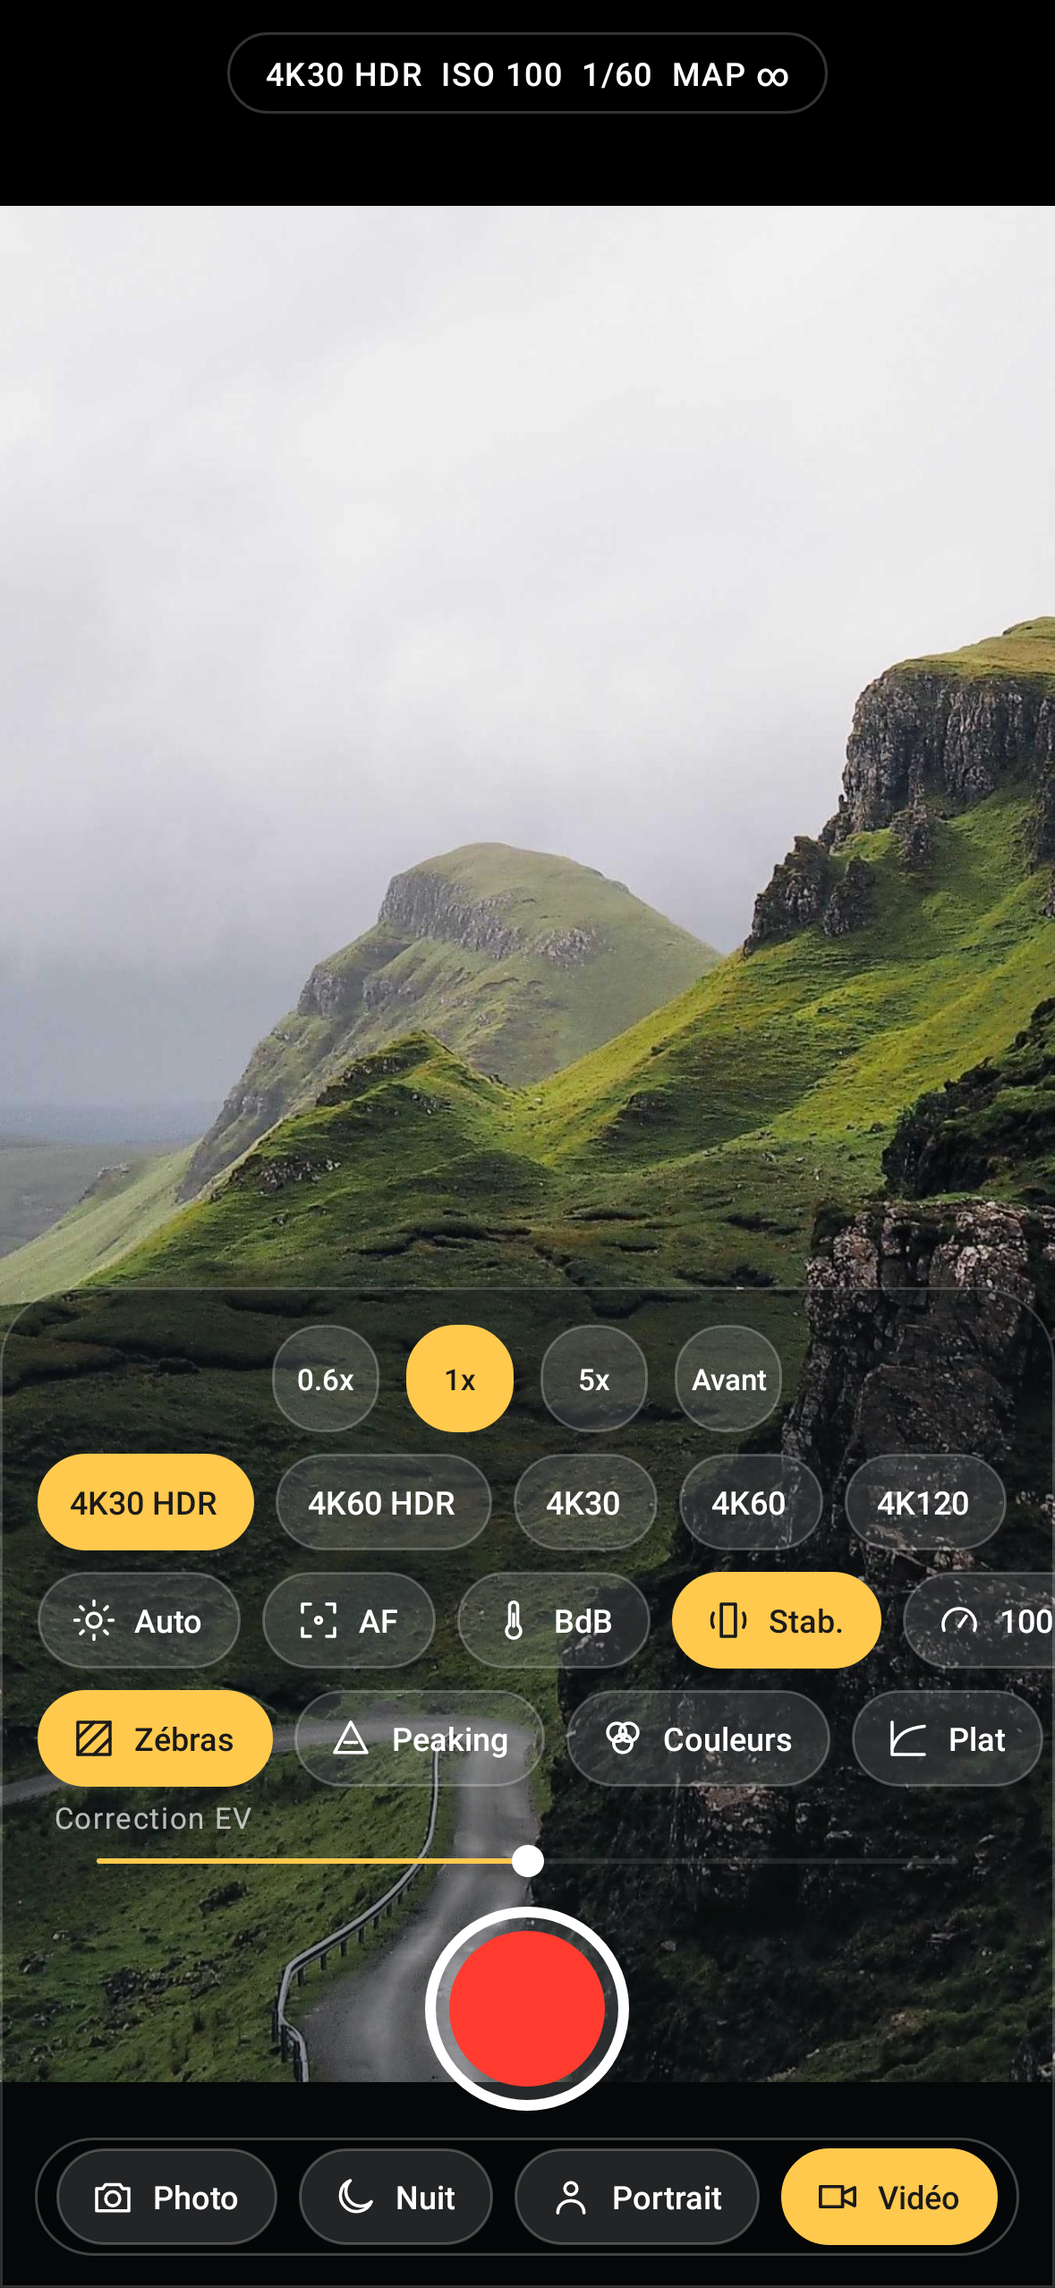
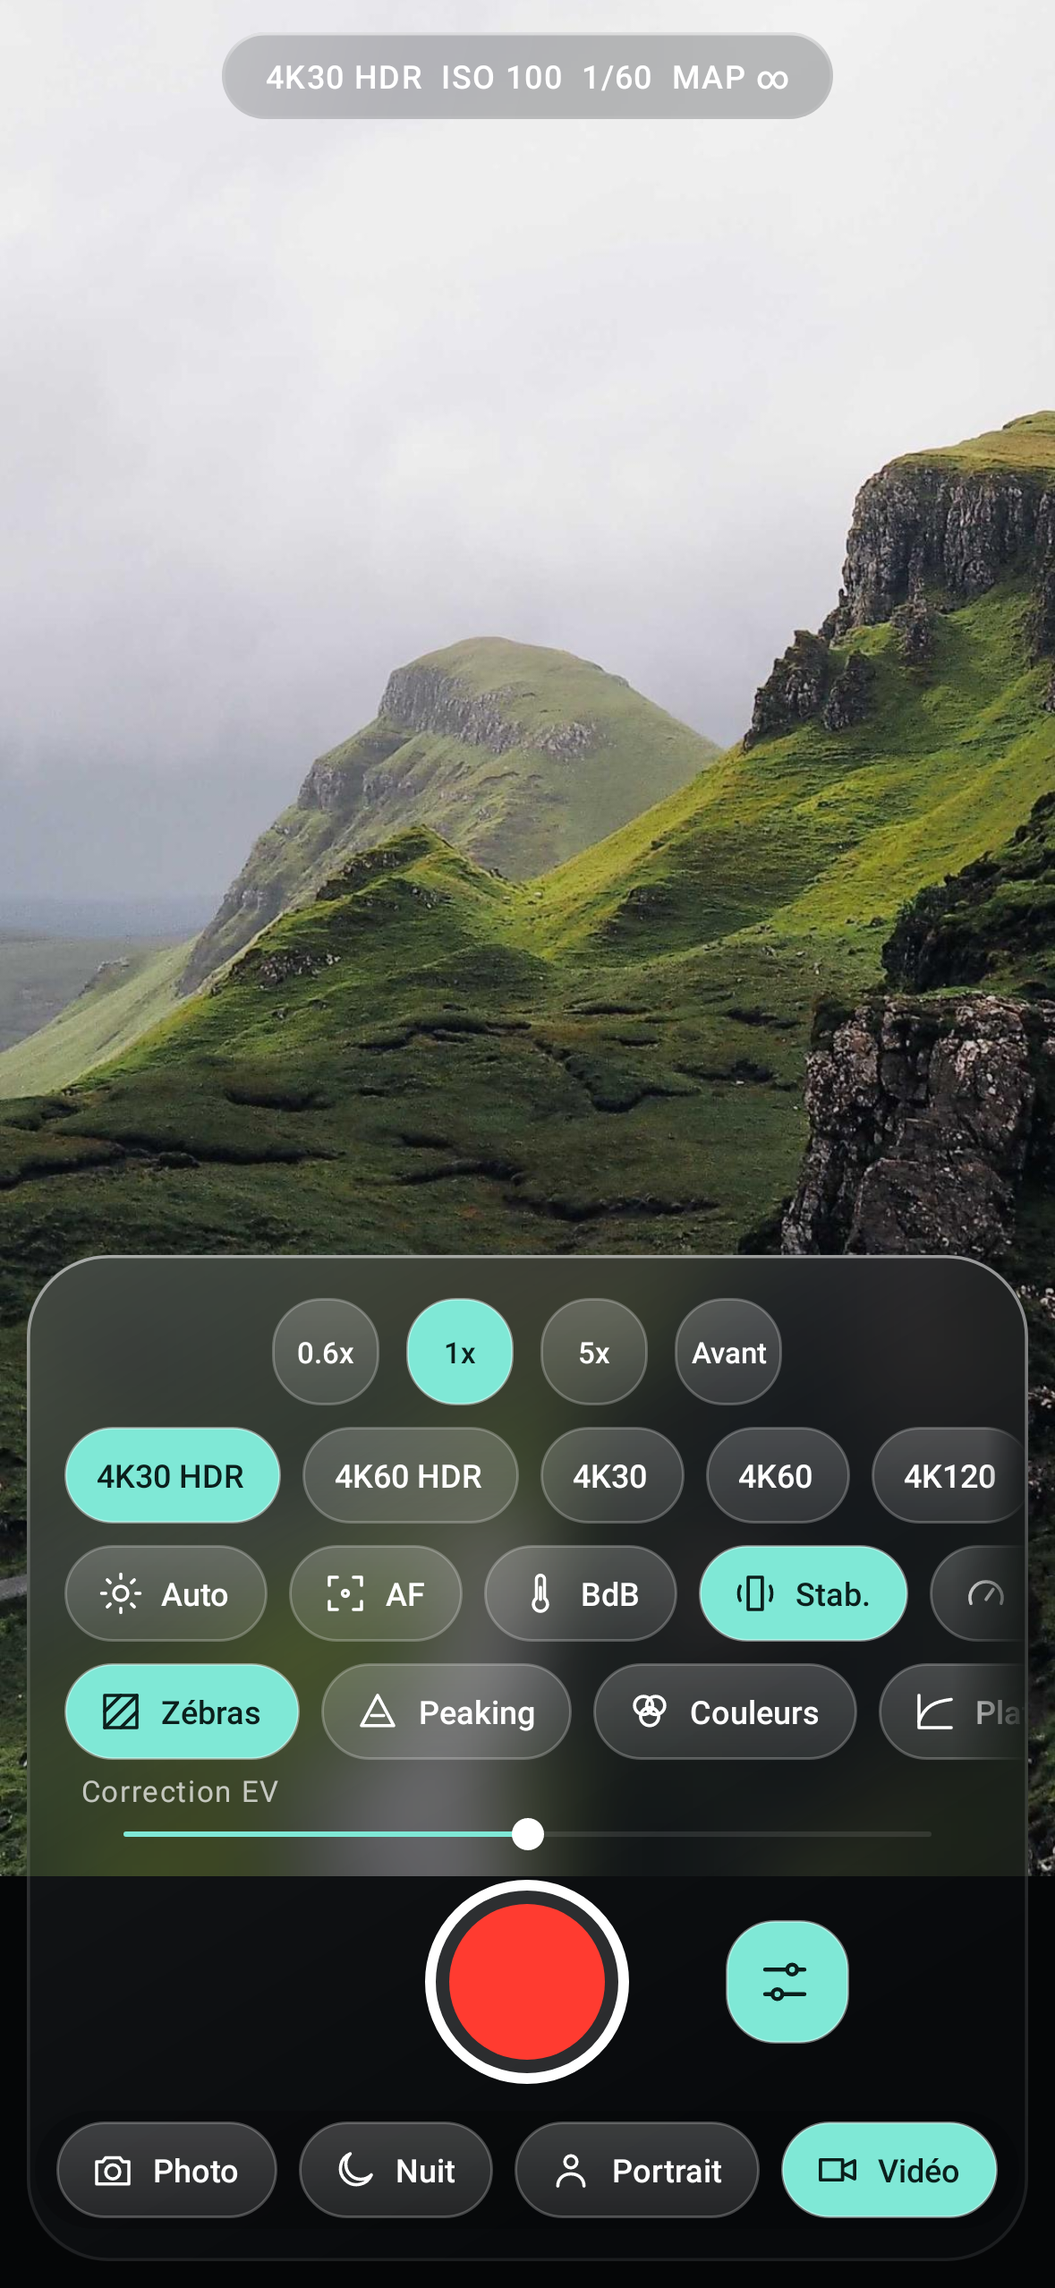
v0.7: real frosted-glass UI and layout fixes
- GlassView: live blurred copy of the preview (PixelCopy, ~12 fps, low
  res, saturated box blur) painted inside each panel, aligned with the
  preview; tint, diagonal sheen, top-lit hairline, soft shadow.
- Floating glass card, mint accent, settings collapsed behind a tune
  button, fading edges on scrolling rows, info floating over the image,
  photo preview passing under the glass card.

Claude-Session: https://claude.ai/code/session_01W8UXQdnoa2nuUfE41EzHPh

diff --git a/app/src/main/java/com/macam/cam/CameraActivity.kt b/app/src/main/java/com/macam/cam/CameraActivity.kt
@@ -105,13 +105,29 @@ class CameraActivity : Activity(), SurfaceHolder.Callback {
 
     override fun onResume() {
         super.onResume()
+        blurHandler.postDelayed(blurTick, 300)
         orientationListener.enable()
         val missing = arrayOf(Manifest.permission.CAMERA, Manifest.permission.RECORD_AUDIO)
             .filter { checkSelfPermission(it) != PackageManager.PERMISSION_GRANTED }
         if (missing.isNotEmpty()) requestPermissions(missing.toTypedArray(), 1) else startCamera()
     }
 
+    /** Copie l'aperçu ~12 fois par seconde en très basse définition pour le flou des panneaux. */
+    private val blurTick = object : Runnable {
+        override fun run() {
+            val sv = surfaceView
+            if (sv.holder.surface.isValid && sv.width > 0) {
+                val small = android.graphics.Bitmap.createBitmap(maxOf(1, sv.width / 8), maxOf(1, sv.height / 8), android.graphics.Bitmap.Config.ARGB_8888)
+                try {
+                    android.view.PixelCopy.request(sv, small, { r -> if (r == android.view.PixelCopy.SUCCESS) Backdrop.update(small) }, blurHandler)
+                } catch (_: Exception) {}
+            }
+            blurHandler.postDelayed(this, 80)
+        }
+    }
+
     override fun onPause() {
+        blurHandler.removeCallbacks(blurTick)
         orientationListener.disable()
         cam?.release(); cam = null
         photo?.release(); photo = null
@@ -198,12 +214,13 @@ class CameraActivity : Activity(), SurfaceHolder.Callback {
     /** L'aperçu est en paysage (16:9) mais l'écran est en portrait : on affiche en 9:16. */
     private fun layoutPreview(size: Size) {
         val w = resources.displayMetrics.widthPixels
-        // 4:3 (photo) : collé en haut sous l'info ; 16:9 (vidéo) : centré, presque plein écran.
+        // L'aperçu part du haut : l'info flotte dessus, et le bas passe sous la carte de verre.
         val tall = size.width * 3 > size.height * 4 + 1
-        val lp = FrameLayout.LayoutParams(w, w * size.width / size.height, if (tall) Gravity.CENTER else Gravity.TOP)
-        if (!tall) lp.topMargin = 52.dp
+        // Photo 4:3 : ancrée par le bas, ses 70 derniers dp passent sous la carte de verre.
+        val lp = FrameLayout.LayoutParams(w, w * size.width / size.height, if (tall) Gravity.TOP else Gravity.BOTTOM)
+        if (!tall) lp.bottomMargin = 150.dp
         surfaceView.layoutParams = lp
-        overlay.layoutParams = FrameLayout.LayoutParams(lp.width, lp.height, lp.gravity).apply { topMargin = lp.topMargin }
+        overlay.layoutParams = FrameLayout.LayoutParams(lp.width, lp.height, lp.gravity).apply { bottomMargin = lp.bottomMargin }
     }
 
     // ------------------------------------------------------------------ interface
@@ -211,23 +228,35 @@ class CameraActivity : Activity(), SurfaceHolder.Callback {
     // ------------------------------------------------------------------ design « verre dépoli »
 
     private val Int.dp get() = (this * resources.displayMetrics.density).toInt()
-    private val accent = 0xFFFFC94D.toInt()
+    /** Accent « menthe glacée » : la signature visuelle de Ma Cam. */
+    private val accent = 0xFF7FE8D6.toInt()
+    private val accentInk = 0xFF0B1F1C.toInt()
+    private var settingsOpen = false
+    private lateinit var gearBtn: Button
+    private lateinit var panelGlass: GlassView
+    private val blurHandler = android.os.Handler(android.os.Looper.getMainLooper())
 
     /** Panneau translucide : voile clair + liseré lumineux, comme une plaque de verre sur l'aperçu. */
     private fun glass(radiusDp: Int, fill: Int = 0x1FFFFFFF, stroke: Int = 0x3DFFFFFF, topOnly: Boolean = false) =
         GradientDrawable().apply {
-            setColor(fill)
+            // Verre de pastille : un léger dégradé vertical imite la lumière qui glisse sur la surface.
+            orientation = GradientDrawable.Orientation.TOP_BOTTOM
+            colors = intArrayOf(lighten(fill), fill)
             setStroke(1.dp, stroke)
             val r = radiusDp.dp.toFloat()
             if (topOnly) cornerRadii = floatArrayOf(r, r, r, r, 0f, 0f, 0f, 0f) else cornerRadius = r
         }
 
+    private fun lighten(c: Int): Int {
+        val a = (c ushr 24); if (a == 0) return c
+        return ((minOf(255, a + 0x18)) shl 24) or (c and 0xFFFFFF)
+    }
+
     private fun buildUi() {
         surfaceView = SurfaceView(this).apply { holder.addCallback(this@CameraActivity) }
         info = TextView(this).apply {
             setTextColor(Color.WHITE); textSize = 12f; letterSpacing = 0.04f
-            setPadding(14.dp, 7.dp, 14.dp, 7.dp)
-            background = glass(18, fill = 0x33000000, stroke = 0x33FFFFFF)
+            setPadding(16.dp, 8.dp, 16.dp, 8.dp)
             typeface = android.graphics.Typeface.create("sans-serif-medium", android.graphics.Typeface.NORMAL)
         }
         lensRow = row(); modeRow = row()
@@ -256,8 +285,8 @@ class CameraActivity : Activity(), SurfaceHolder.Callback {
         tabRow = row().apply {
             gravity = Gravity.CENTER_HORIZONTAL
             setPadding(4.dp, 4.dp, 4.dp, 4.dp)
-            background = glass(24, fill = 0x26000000)
-            for (t in Tab.entries) addView(chip(t.label, tabIcons[t]) { switchTab(t) }.apply { background = glass(20, 0, 0) })
+            background = GradientDrawable().apply { cornerRadius = 24.dp.toFloat(); setColor(0x33000000) }
+            for (t in Tab.entries) addView(chip(t.label, tabIcons[t]) { switchTab(t) })
         }
 
         evBar = slider(-24, 24) { v -> cam?.let { it.settings.evSteps = v; it.applySettings() } }
@@ -277,24 +306,41 @@ class CameraActivity : Activity(), SurfaceHolder.Callback {
         styleShutter()
         overlay = ImageView(this).apply { scaleType = ImageView.ScaleType.MATRIX }
 
-        // L'aperçu occupe tout l'écran ; les commandes flottent dessus dans des panneaux de verre.
-        val panel = LinearLayout(this).apply {
+        gearBtn = Button(this).apply {
+            contentDescription = "Réglages"; stateListAnimator = null; text = ""
+            val d = getDrawable(R.drawable.ic_tune)!!.mutate().apply { setBounds(0, 0, 22.dp, 22.dp) }
+            setCompoundDrawablesRelative(d, null, null, null); setPadding(11.dp, 0, 0, 0)
+            background = glass(23)
+            setOnClickListener { settingsOpen = !settingsOpen; refreshButtons() }
+        }
+        val shutterRow = LinearLayout(this).apply {
+            gravity = Gravity.CENTER
+            addView(View(this@CameraActivity), LinearLayout.LayoutParams(46.dp, 46.dp))
+            addView(recordBtn, LinearLayout.LayoutParams(76.dp, 76.dp).apply { setMargins(36.dp, 0, 36.dp, 0) })
+            addView(gearBtn, LinearLayout.LayoutParams(46.dp, 46.dp))
+        }
+
+        // Carte de verre flottante (détachée des bords) qui floute réellement l'aperçu situé derrière.
+        val content = LinearLayout(this).apply {
             orientation = LinearLayout.VERTICAL
-            setPadding(0, 10.dp, 0, 12.dp)
-            background = glass(28, fill = 0x59101418, stroke = 0x2EFFFFFF, topOnly = true)
+            setPadding(0, 12.dp, 0, 12.dp)
             addView(scroll(lensRow).center()); addView(scroll(modeRow)); addView(scroll(settingsRow))
             addView(scroll(toolsRow)); addView(scroll(photoRow).center())
             addView(manualPanel)
-            addView(recordBtn, LinearLayout.LayoutParams(76.dp, 76.dp).apply { gravity = Gravity.CENTER_HORIZONTAL; setMargins(0, 8.dp, 0, 10.dp) })
-            addView(scroll(tabRow).center(), LinearLayout.LayoutParams(WRAP_CONTENT, WRAP_CONTENT).apply { gravity = Gravity.CENTER_HORIZONTAL })
+            addView(shutterRow, LinearLayout.LayoutParams(MATCH_PARENT, WRAP_CONTENT).apply { setMargins(0, 8.dp, 0, 10.dp) })
+            addView(tabRow, LinearLayout.LayoutParams(WRAP_CONTENT, WRAP_CONTENT).apply { gravity = Gravity.CENTER_HORIZONTAL })
         }
+        panelGlass = GlassView(this, 30.dp.toFloat()).apply { addView(content) }
+        val infoGlass = GlassView(this, 19.dp.toFloat(), tint = 0x40101418).apply { elevation = 4.dp.toFloat(); addView(info) }
+        Backdrop.source = surfaceView
+
         setContentView(FrameLayout(this).apply {
             fitsSystemWindows = true
-            setBackgroundColor(Color.BLACK)
+            setBackgroundColor(0xFF050607.toInt())
             addView(surfaceView, FrameLayout.LayoutParams(MATCH_PARENT, MATCH_PARENT, Gravity.CENTER))
             addView(this@CameraActivity.overlay, FrameLayout.LayoutParams(MATCH_PARENT, MATCH_PARENT, Gravity.CENTER))
-            addView(info, FrameLayout.LayoutParams(WRAP_CONTENT, WRAP_CONTENT, Gravity.TOP or Gravity.CENTER_HORIZONTAL).apply { topMargin = 12.dp })
-            addView(panel, FrameLayout.LayoutParams(MATCH_PARENT, WRAP_CONTENT, Gravity.BOTTOM))
+            addView(infoGlass, FrameLayout.LayoutParams(WRAP_CONTENT, WRAP_CONTENT, Gravity.TOP or Gravity.CENTER_HORIZONTAL).apply { topMargin = 12.dp })
+            addView(panelGlass, FrameLayout.LayoutParams(MATCH_PARENT, WRAP_CONTENT, Gravity.BOTTOM).apply { setMargins(10.dp, 0, 10.dp, 10.dp) })
         })
         layoutPreview(Size(1440, 1080))
     }
@@ -309,6 +355,17 @@ class CameraActivity : Activity(), SurfaceHolder.Callback {
         layoutPreview(if (t == Tab.VIDEO) Size(1920, 1080) else Size(1440, 1080))
         overlay.scaleType = ImageView.ScaleType.CENTER_CROP
         overlay.setImageBitmap(scene)
+        settingsOpen = t == Tab.VIDEO
+        // Sans caméra, le flou part de l'image d'exemple (même cadrage que l'aperçu).
+        val pw = resources.displayMetrics.widthPixels
+        val ph = pw * (if (t == Tab.VIDEO) 1920 else 1440) / 1080
+        val small = android.graphics.Bitmap.createBitmap(pw / 8, ph / 8, android.graphics.Bitmap.Config.ARGB_8888)
+        android.graphics.Canvas(small).apply {
+            val sc = maxOf(small.width.toFloat() / scene.width, small.height.toFloat() / scene.height)
+            translate((small.width - scene.width * sc) / 2, (small.height - scene.height * sc) / 2); scale(sc, sc)
+            drawBitmap(scene, 0f, 0f, android.graphics.Paint(android.graphics.Paint.FILTER_BITMAP_FLAG))
+        }
+        Backdrop.update(small)
         info.text = status
         for (i in 0 until tabRow.childCount) (tabRow.getChildAt(i) as Button).selected(Tab.entries[i] == t)
         lensRow.removeAllViews(); modeRow.removeAllViews()
@@ -352,7 +409,13 @@ class CameraActivity : Activity(), SurfaceHolder.Callback {
     private fun row() = LinearLayout(this).apply {
         orientation = LinearLayout.HORIZONTAL; gravity = Gravity.CENTER_VERTICAL; setPadding(10.dp, 4.dp, 10.dp, 4.dp)
     }
-    private fun scroll(v: View) = HorizontalScrollView(this).apply { isHorizontalScrollBarEnabled = false; addView(v) }
+    /** Rangée défilante : les bords s'estompent pour signaler qu'il y a d'autres options. */
+    private fun scroll(v: View) = HorizontalScrollView(this).apply {
+        isHorizontalScrollBarEnabled = false
+        isHorizontalFadingEdgeEnabled = true
+        setFadingEdgeLength(28.dp)
+        addView(v)
+    }
 
     /** Pastille de verre avec icône à trait fin. */
     private fun chip(label: String, icon: Int? = null, onClick: () -> Unit) = Button(this).apply {
@@ -372,8 +435,8 @@ class CameraActivity : Activity(), SurfaceHolder.Callback {
     }
 
     private fun Button.selected(on: Boolean) {
-        background = if (on) glass(18, fill = accent, stroke = accent) else glass(18)
-        val fg = if (on) 0xFF1A1A1A.toInt() else Color.WHITE
+        background = if (on) glass(18, fill = accent, stroke = 0x66FFFFFF) else glass(18)
+        val fg = if (on) accentInk else Color.WHITE
         setTextColor(fg)
         compoundDrawablesRelative[0]?.setTint(fg)
         alpha = if (isEnabled) 1f else 0.4f
@@ -442,9 +505,13 @@ class CameraActivity : Activity(), SurfaceHolder.Callback {
 
     private fun refreshButtons() {
         val video = tab == Tab.VIDEO
-        for (r in listOf(modeRow, settingsRow, toolsRow)) (r.parent as View).visibility = if (video) View.VISIBLE else View.GONE
-        (photoRow.parent as View).visibility = if (video) View.GONE else View.VISIBLE
-        manualPanel.visibility = if (video) View.VISIBLE else View.GONE
+        val vis = { b: Boolean -> if (b) View.VISIBLE else View.GONE }
+        (modeRow.parent as View).visibility = vis(video)
+        // Réglages détaillés repliés derrière le bouton ⚙ pour laisser l'image respirer.
+        for (r in listOf(settingsRow, toolsRow)) (r.parent as View).visibility = vis(video && settingsOpen)
+        (photoRow.parent as View).visibility = vis(!video && settingsOpen)
+        manualPanel.visibility = vis(video && settingsOpen)
+        gearBtn.selected(settingsOpen)
         styleShutter()
         photo?.let { p ->
             dngBtn.selected(p.saveDng); dngBtn.isEnabled = p.mode != PhotoMode.PORTRAIT

diff --git a/app/src/main/java/com/macam/cam/Glass.kt b/app/src/main/java/com/macam/cam/Glass.kt
@@ -1,0 +1,130 @@
+package com.macam.cam
+
+import android.content.Context
+import android.graphics.*
+import android.view.View
+import android.widget.FrameLayout
+
+/**
+ * Arrière-plan partagé des panneaux de verre : une copie très basse définition de l'aperçu,
+ * floutée et légèrement saturée. Chaque [GlassView] en peint la portion qui se trouve derrière elle.
+ */
+object Backdrop {
+    @Volatile var bitmap: Bitmap? = null; private set
+    /** Vue dont le contenu est flouté (l'aperçu caméra). */
+    var source: View? = null
+    private val views = mutableSetOf<GlassView>()
+
+    fun register(v: GlassView) { views += v }
+    fun unregister(v: GlassView) { views -= v }
+
+    /** Floute [small] (déjà réduite) et la publie. */
+    fun update(small: Bitmap) {
+        bitmap = blur(small, radius = (small.width / 28).coerceAtLeast(3), passes = 3, saturation = 1.35f)
+        views.forEach { it.postInvalidate() }
+    }
+
+    fun clear() { bitmap = null; views.forEach { it.postInvalidate() } }
+
+    /** Flou boîte séparable répété (≈ gaussien) + saturation, en entiers : rapide sur une petite image. */
+    fun blur(src: Bitmap, radius: Int, passes: Int, saturation: Float): Bitmap {
+        val w = src.width; val h = src.height
+        val px = IntArray(w * h).also { src.getPixels(it, 0, w, 0, 0, w, h) }
+        val r = IntArray(w * h); val g = IntArray(w * h); val b = IntArray(w * h)
+        for (i in px.indices) {
+            val c = px[i]
+            val cr = (c shr 16) and 0xFF; val cg = (c shr 8) and 0xFF; val cb = c and 0xFF
+            val l = (cr * 77 + cg * 150 + cb * 29) shr 8
+            r[i] = (l + (cr - l) * saturation).toInt().coerceIn(0, 255)
+            g[i] = (l + (cg - l) * saturation).toInt().coerceIn(0, 255)
+            b[i] = (l + (cb - l) * saturation).toInt().coerceIn(0, 255)
+        }
+        val tmp = IntArray(w * h)
+        repeat(passes) { for (ch in arrayOf(r, g, b)) { boxH(ch, tmp, w, h, radius); boxV(tmp, ch, w, h, radius) } }
+        for (i in px.indices) px[i] = (0xFF shl 24) or (r[i] shl 16) or (g[i] shl 8) or b[i]
+        return Bitmap.createBitmap(px, w, h, Bitmap.Config.ARGB_8888)
+    }
+
+    private fun boxH(s: IntArray, d: IntArray, w: Int, h: Int, r: Int) {
+        val n = 2 * r + 1
+        for (y in 0 until h) {
+            val o = y * w; var acc = 0
+            for (i in -r..r) acc += s[o + i.coerceIn(0, w - 1)]
+            for (x in 0 until w) {
+                d[o + x] = acc / n
+                acc += s[o + (x + r + 1).coerceAtMost(w - 1)] - s[o + (x - r).coerceAtLeast(0)]
+            }
+        }
+    }
+
+    private fun boxV(s: IntArray, d: IntArray, w: Int, h: Int, r: Int) {
+        val n = 2 * r + 1
+        for (x in 0 until w) {
+            var acc = 0
+            for (i in -r..r) acc += s[i.coerceIn(0, h - 1) * w + x]
+            for (y in 0 until h) {
+                d[y * w + x] = acc / n
+                acc += s[(y + r + 1).coerceAtMost(h - 1) * w + x] - s[(y - r).coerceAtLeast(0) * w + x]
+            }
+        }
+    }
+}
+
+/**
+ * Panneau de verre dépoli : flou réel de l'aperçu situé derrière, voile teinté, reflet diagonal
+ * et liseré lumineux plus marqué sur le bord supérieur.
+ */
+class GlassView(ctx: Context, private val radiusPx: Float, private val tint: Int = 0x52101418) : FrameLayout(ctx) {
+
+    private val path = Path()
+    private val rect = RectF()
+    private val bmpPaint = Paint(Paint.FILTER_BITMAP_FLAG or Paint.ANTI_ALIAS_FLAG)
+    private val tintPaint = Paint(Paint.ANTI_ALIAS_FLAG)
+    private val sheenPaint = Paint(Paint.ANTI_ALIAS_FLAG)
+    private val strokePaint = Paint(Paint.ANTI_ALIAS_FLAG).apply { style = Paint.Style.STROKE }
+    private val me = IntArray(2); private val src = IntArray(2)
+    private val density = ctx.resources.displayMetrics.density
+
+    init {
+        setWillNotDraw(false)
+        clipToOutline = false
+        // Ombre douce : le panneau « flotte » au-dessus de l'image.
+        elevation = 10 * density
+        outlineProvider = object : android.view.ViewOutlineProvider() {
+            override fun getOutline(v: View, o: android.graphics.Outline) { o.setRoundRect(0, 0, v.width, v.height, radiusPx) }
+        }
+    }
+
+    override fun onAttachedToWindow() { super.onAttachedToWindow(); Backdrop.register(this) }
+    override fun onDetachedFromWindow() { Backdrop.unregister(this); super.onDetachedFromWindow() }
+
+    override fun onSizeChanged(w: Int, h: Int, ow: Int, oh: Int) {
+        rect.set(0f, 0f, w.toFloat(), h.toFloat())
+        path.reset(); path.addRoundRect(rect, radiusPx, radiusPx, Path.Direction.CW)
+        tintPaint.color = tint
+        // Reflet : lumière venant du haut à gauche, qui s'éteint vers le centre.
+        sheenPaint.shader = LinearGradient(0f, 0f, w * 0.6f, h.toFloat(),
+            intArrayOf(0x2EFFFFFF, 0x0AFFFFFF, 0x00FFFFFF), floatArrayOf(0f, 0.45f, 1f), Shader.TileMode.CLAMP)
+        // Liseré : plus lumineux en haut (lumière zénithale), presque invisible en bas.
+        strokePaint.strokeWidth = 1.2f * density
+        strokePaint.shader = LinearGradient(0f, 0f, 0f, h.toFloat(),
+            intArrayOf(0x8CFFFFFF.toInt(), 0x26FFFFFF, 0x14FFFFFF), floatArrayOf(0f, 0.35f, 1f), Shader.TileMode.CLAMP)
+    }
+
+    override fun onDraw(canvas: Canvas) {
+        canvas.save()
+        canvas.clipPath(path)
+        val bmp = Backdrop.bitmap
+        val s = Backdrop.source
+        if (bmp != null && s != null && s.width > 0) {
+            getLocationInWindow(me); s.getLocationInWindow(src)
+            val l = (src[0] - me[0]).toFloat(); val t = (src[1] - me[1]).toFloat()
+            canvas.drawBitmap(bmp, null, RectF(l, t, l + s.width, t + s.height), bmpPaint)
+        }
+        canvas.drawRect(rect, tintPaint)
+        canvas.drawRect(rect, sheenPaint)
+        canvas.restore()
+        val inset = strokePaint.strokeWidth / 2
+        canvas.drawRoundRect(inset, inset, width - inset, height - inset, radiusPx, radiusPx, strokePaint)
+    }
+}
